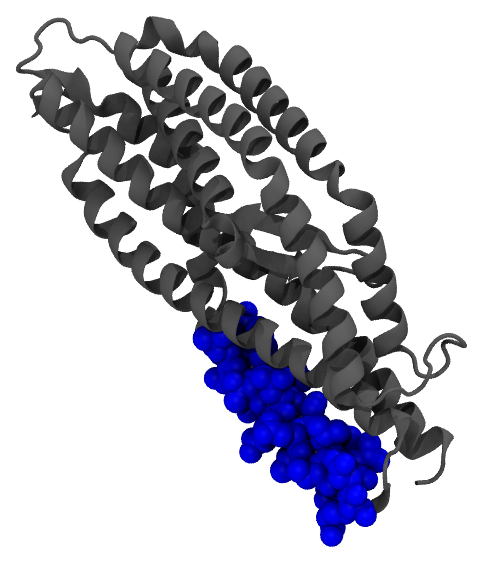
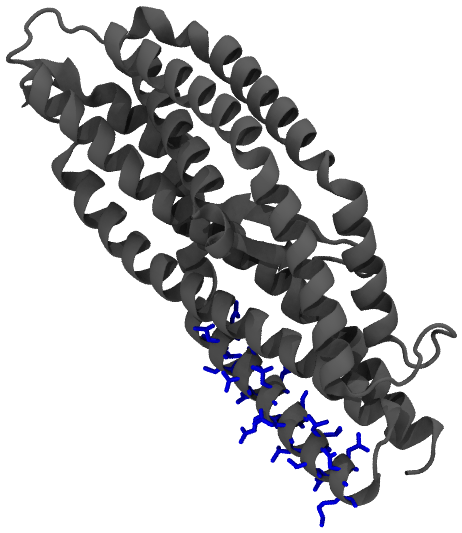
docs(methods+home): real rendered figures for growth/sampling/segments; licorice
Methods page: replace the three dot-based conceptual diagrams with renderings
from the real 8PWW structure.
- Neighbor-based patch growth: three molecular-surface panels (same surface and
  view) showing growth from one exposed seed residue to a ~16-residue patch,
  generated with the actual nearest-surface growth procedure (render_surface_stage.tcl).
- Directional surface sampling: two panels of the same surface and view, each
  highlighting a different surface cap, with a viewing-direction arrow.
- Sequence segments: a real ribbon of 8PWW chain A with two stretches (186-208,
  286-313) in red and orange meeting in the fold, beside a matching sequence
  strip (render_islands.tcl). The iterative-loop flowchart stays SVG.

Homepage: switch the highlighted residues from VDW spheres to licorice sticks
(render_epitope_fig.tcl), re-render, and reduce whitespace (transparent image
backgrounds, height caps, tighter crop padding in trim_transparent.py).

New reproducible scripts: render_surface_stage.tcl, render_islands.tcl.

Claude-Session: https://claude.ai/code/session_01UnbU2XAnf3AQvdSJq3XEXq

Changed region(s): [[0.0, 0.0, 1.0, 0.9906]]

diff --git a/docs/methods.html b/docs/methods.html
@@ -52,6 +52,17 @@ figure.dgm figcaption{font-size:11.5px;color:#6a7686;margin:7px auto 0;max-width
 .dgm .dlbl{font-size:11px;font-weight:bold;fill:currentColor}
 .dgm .dtxt{font-size:10.5px;fill:currentColor}
 .dgm .dmut{font-size:10px;fill:currentColor;opacity:.62}
+.frow{display:flex;gap:10px;align-items:flex-start;justify-content:center;flex-wrap:wrap;margin:4px 0}
+.frow figure{margin:0;flex:1 1 150px;min-width:120px;max-width:210px;text-align:center}
+.frow img{display:block;width:100%;height:auto;border:1px solid #e3e9f2;border-radius:7px;background:#f3f6fb}
+.frow figcaption{font-size:10.5px;color:#6a7686;margin-top:4px;text-align:center}
+.frow .farrow{flex:0 0 auto;align-self:center;font-size:20px;color:#8fa4c0}
+.dirwrap{position:relative;display:block}
+.dirwrap .darrow{position:absolute;display:block;width:60%;height:auto;color:#1b4a86}
+.seqfig{display:flex;gap:14px;align-items:center;flex-wrap:wrap;justify-content:center}
+.seqfig .strip{flex:1 1 240px;min-width:220px;max-width:360px}
+.seqfig .fold{flex:0 0 auto;width:170px}
+.seqfig .fold img{display:block;width:100%;height:auto;border:1px solid #e3e9f2;border-radius:7px;background:#f3f6fb}
 </style>
 </head>
 <body>
@@ -120,30 +131,29 @@ figure.dgm figcaption{font-size:11.5px;color:#6a7686;margin:7px auto 0;max-width
     benchmark this 4&nbsp;&Aring; contact rule returns the same epitope residues reported for that
     complex.</p>
     <figure class="dgm">
-    <svg viewBox="0 0 480 262" role="img" aria-label="Schematic of sequence islands: three separate stretches of the primary sequence that sit next to one another once the chain folds." style="max-width:460px">
-    <title>Sequence segments (islands)</title>
-    <text class="dmut" x="40" y="34" text-anchor="start">primary sequence (N &#8594; C)</text>
-    <rect x="40" y="46" width="400" height="28" rx="5" fill="#9aa3ad" fill-opacity=".13" stroke="#9aa3ad"/>
-    <rect x="95" y="46" width="42" height="28" rx="3" fill="#e5543f"/>
-    <rect x="210" y="46" width="52" height="28" rx="3" fill="#e5543f"/>
-    <rect x="350" y="46" width="34" height="28" rx="3" fill="#e5543f"/>
-    <text class="dtxt" x="116" y="90" text-anchor="middle">1</text>
-    <text class="dtxt" x="236" y="90" text-anchor="middle">2</text>
-    <text class="dtxt" x="367" y="90" text-anchor="middle">3</text>
-    <g fill="none" stroke="currentColor" stroke-opacity=".35" stroke-dasharray="4 3">
-      <path d="M116,96 C 150,120 180,135 205,152"/>
-      <path d="M236,96 C 238,118 239,130 240,140"/>
-      <path d="M367,96 C 330,120 300,140 277,153"/>
-    </g>
-    <ellipse cx="240" cy="188" rx="112" ry="60" fill="#9aa3ad" fill-opacity=".13" stroke="#9aa3ad"/>
-    <circle cx="205" cy="160" r="13" fill="#e5543f"/>
-    <circle cx="240" cy="150" r="13" fill="#e5543f"/>
-    <circle cx="275" cy="162" r="13" fill="#e5543f"/>
-    <text class="dtxt" x="240" y="252" text-anchor="middle">folded structure</text>
-    </svg>
-    <figcaption>Conceptual schematic. One epitope is often several separate stretches of the sequence
-    (islands, red) that are far apart along the chain but sit next to one another once it folds.
-    Generation must reproduce each island and the geometry between them.</figcaption>
+    <div class="seqfig">
+      <div class="strip">
+        <svg viewBox="0 0 360 74" role="img" aria-label="The antigen sequence with two highlighted stretches, residues 186 to 208 and 286 to 313, that are far apart in sequence." style="max-width:360px">
+          <text class="dmut" x="6" y="14" text-anchor="start">antigen sequence (N &#8594; C)</text>
+          <rect x="6" y="22" width="348" height="22" rx="4" fill="#9aa3ad" fill-opacity=".14" stroke="#9aa3ad"/>
+          <rect x="70" y="22" width="58" height="22" rx="3" fill="#e5543f"/>
+          <rect x="232" y="22" width="70" height="22" rx="3" fill="#e8872b"/>
+          <text class="dtxt" x="99" y="38" text-anchor="middle" fill="#ffffff" font-weight="bold">1</text>
+          <text class="dtxt" x="267" y="38" text-anchor="middle" fill="#ffffff" font-weight="bold">2</text>
+          <text class="dtxt" x="99" y="62" text-anchor="middle">186&ndash;208</text>
+          <text class="dtxt" x="267" y="62" text-anchor="middle">286&ndash;313</text>
+        </svg>
+      </div>
+      <figure class="fold" style="margin:0">
+        <img src="img/fig/seq_islands.png" loading="lazy"
+             alt="8PWW chain A as a grey ribbon; residues 186-208 (red) and 286-313 (orange) sit next to each other at the top of the fold.">
+        <figcaption style="font-size:10.5px;color:#6a7686;margin-top:4px">the two stretches meet in the fold</figcaption>
+      </figure>
+    </div>
+    <figcaption>Two stretches of the 8PWW sequence, far apart along the chain
+    (<b style="color:#c0392b">186&ndash;208</b> and <b style="color:#b35e13">286&ndash;313</b>), sit next to
+    one another once the antigen folds. One epitope is often several such segments (&ldquo;islands&rdquo;),
+    and generation must reproduce each and the geometry between them. Rendered from 8PWW chain A.</figcaption>
     </figure>
     <p class="io"><b>In:</b> antibody&ndash;antigen complex (PDB). <b>&rarr; Out:</b> the epitope &mdash; the antigen residues the antibody contacts.</p>
     <p class="loc">episcaf_analysis/growpatch/read.py &middot; detect_complex()</p>
@@ -176,81 +186,40 @@ figure.dgm figcaption{font-size:11.5px;color:#6a7686;margin:7px auto 0;max-width
       geometrically-defined patches that the growth pass can split across sequence segments.</li>
     </ul>
     <figure class="dgm">
-    <svg viewBox="0 0 670 200" role="img" aria-label="Three-panel schematic of seed-and-grow patch growth: one seed residue, then its nearest surface neighbours added, then a footprint-sized patch of about sixteen residues." style="max-width:670px">
-    <title>Neighbor-based patch growth (seed and grow)</title>
-    <defs><marker id="mkg" markerWidth="9" markerHeight="9" refX="6" refY="3" orient="auto"><path d="M0,0 L6,3 L0,6 Z" fill="currentColor"/></marker></defs>
-    <g transform="translate(10,0)">
-      <text class="dlbl" x="100" y="16" text-anchor="middle">1 &middot; pick a seed</text>
-      <ellipse cx="100" cy="95" rx="72" ry="62" fill="#9aa3ad" fill-opacity=".12" stroke="#9aa3ad"/>
-      <g fill="none" stroke="#9aa3ad">
-        <circle cx="126" cy="95" r="7"/><circle cx="113" cy="72.5" r="7"/><circle cx="87" cy="72.5" r="7"/><circle cx="74" cy="95" r="7"/><circle cx="87" cy="117.5" r="7"/><circle cx="113" cy="117.5" r="7"/>
-        <circle cx="150" cy="95" r="7"/><circle cx="143" cy="70" r="7"/><circle cx="125" cy="52" r="7"/><circle cx="100" cy="45" r="7"/><circle cx="75" cy="52" r="7"/><circle cx="57" cy="70" r="7"/><circle cx="50" cy="95" r="7"/><circle cx="57" cy="120" r="7"/><circle cx="75" cy="138" r="7"/><circle cx="100" cy="145" r="7"/><circle cx="125" cy="138" r="7"/><circle cx="143" cy="120" r="7"/>
-      </g>
-      <circle cx="100" cy="95" r="7.5" fill="#e5543f" stroke="#e5543f"/>
-      <text class="dmut" x="100" y="188" text-anchor="middle">exposed residue</text>
-    </g>
-    <g color="currentColor"><line x1="180" y1="95" x2="236" y2="95" stroke="currentColor" stroke-width="1.5" marker-end="url(#mkg)"/><text class="dmut" x="208" y="88" text-anchor="middle">grow</text></g>
-    <g transform="translate(235,0)">
-      <text class="dlbl" x="100" y="16" text-anchor="middle">2 &middot; add nearest neighbours</text>
-      <ellipse cx="100" cy="95" rx="72" ry="62" fill="#9aa3ad" fill-opacity=".12" stroke="#9aa3ad"/>
-      <g fill="none" stroke="#9aa3ad">
-        <circle cx="150" cy="95" r="7"/><circle cx="143" cy="70" r="7"/><circle cx="125" cy="52" r="7"/><circle cx="100" cy="45" r="7"/><circle cx="75" cy="52" r="7"/><circle cx="57" cy="70" r="7"/><circle cx="50" cy="95" r="7"/><circle cx="57" cy="120" r="7"/><circle cx="75" cy="138" r="7"/><circle cx="100" cy="145" r="7"/><circle cx="125" cy="138" r="7"/><circle cx="143" cy="120" r="7"/>
-      </g>
-      <g fill="#2b47d6" fill-opacity=".55" stroke="#2b47d6">
-        <circle cx="126" cy="95" r="7"/><circle cx="113" cy="72.5" r="7"/><circle cx="87" cy="72.5" r="7"/><circle cx="74" cy="95" r="7"/><circle cx="87" cy="117.5" r="7"/><circle cx="113" cy="117.5" r="7"/>
-      </g>
-      <circle cx="100" cy="95" r="7.5" fill="#e5543f" stroke="#e5543f"/>
-      <text class="dmut" x="100" y="188" text-anchor="middle">first ring added</text>
-    </g>
-    <g color="currentColor"><line x1="405" y1="95" x2="461" y2="95" stroke="currentColor" stroke-width="1.5" marker-end="url(#mkg)"/><text class="dmut" x="433" y="88" text-anchor="middle">grow</text></g>
-    <g transform="translate(460,0)">
-      <text class="dlbl" x="100" y="16" text-anchor="middle">3 &middot; footprint (~16 residues)</text>
-      <ellipse cx="100" cy="95" rx="72" ry="62" fill="#9aa3ad" fill-opacity=".12" stroke="#9aa3ad"/>
-      <ellipse cx="100" cy="82" rx="56" ry="46" fill="none" stroke="#2b47d6" stroke-width="1.4" stroke-dasharray="4 3"/>
-      <g fill="none" stroke="#9aa3ad">
-        <circle cx="75" cy="138" r="7"/><circle cx="100" cy="145" r="7"/><circle cx="125" cy="138" r="7"/>
-      </g>
-      <g fill="#2b47d6" fill-opacity=".3" stroke="#2b47d6">
-        <circle cx="150" cy="95" r="7"/><circle cx="143" cy="70" r="7"/><circle cx="125" cy="52" r="7"/><circle cx="100" cy="45" r="7"/><circle cx="75" cy="52" r="7"/><circle cx="57" cy="70" r="7"/><circle cx="50" cy="95" r="7"/><circle cx="57" cy="120" r="7"/><circle cx="143" cy="120" r="7"/>
-      </g>
-      <g fill="#2b47d6" fill-opacity=".55" stroke="#2b47d6">
-        <circle cx="126" cy="95" r="7"/><circle cx="113" cy="72.5" r="7"/><circle cx="87" cy="72.5" r="7"/><circle cx="74" cy="95" r="7"/><circle cx="87" cy="117.5" r="7"/><circle cx="113" cy="117.5" r="7"/>
-      </g>
-      <circle cx="100" cy="95" r="7.5" fill="#e5543f" stroke="#e5543f"/>
-      <text class="dmut" x="100" y="188" text-anchor="middle">candidate patch</text>
-    </g>
-    </svg>
-    <figcaption>Conceptual schematic. Neighbor-based growth starts at one exposed surface residue (red)
-    and accretes its nearest surface neighbours (blue, filling outward) until the patch reaches
-    footprint size, about 16 residues. The run repeats from many seeds; residues left grey here fall to
-    patches other seeds grow.</figcaption>
+    <div class="frow">
+      <figure><img src="img/fig/grow_g1.png" loading="lazy" alt="One exposed starting residue in red on the grey molecular surface of 8PWW chain A."><figcaption>1 &middot; pick an exposed seed residue</figcaption></figure>
+      <span class="farrow" aria-hidden="true">&rarr;</span>
+      <figure><img src="img/fig/grow_g2.png" loading="lazy" alt="The seed plus its nearest surface neighbours, a larger red patch on the same surface view."><figcaption>2 &middot; add nearest surface neighbours</figcaption></figure>
+      <span class="farrow" aria-hidden="true">&rarr;</span>
+      <figure><img src="img/fig/grow_g3.png" loading="lazy" alt="A footprint-sized red patch of about sixteen residues on the same surface view."><figcaption>3 &middot; footprint patch (~16 residues)</figcaption></figure>
+    </div>
+    <figcaption>Rendered from 8PWW chain A (molecular surface), using the actual growth procedure:
+    growth starts at one exposed surface residue (red) and accretes its nearest surface neighbours until
+    the patch reaches footprint size, about 16 residues. The same surface and view are held across the
+    three stages; the run repeats from many seeds.</figcaption>
     </figure>
     <figure class="dgm">
-    <svg viewBox="0 0 600 262" role="img" aria-label="Schematic of directional surface sampling: an antigen blob with two approach-direction arrows, each highlighting the surface cap it would contact first." style="max-width:600px">
-    <title>Directional surface sampling (antibody's-eye view)</title>
-    <defs><marker id="mke" markerWidth="9" markerHeight="9" refX="6" refY="3" orient="auto"><path d="M0,0 L6,3 L0,6 Z" fill="currentColor"/></marker></defs>
-    <ellipse cx="300" cy="135" rx="95" ry="78" fill="#9aa3ad" fill-opacity=".13" stroke="#9aa3ad"/>
-    <g fill="none" stroke="#9aa3ad">
-      <circle cx="332" cy="62" r="6.5"/><circle cx="300" cy="57" r="6.5"/><circle cx="268" cy="208" r="6.5"/><circle cx="347" cy="202" r="6.5"/><circle cx="300" cy="213" r="6.5"/>
-    </g>
-    <g fill="#2b47d6" fill-opacity=".55" stroke="#2b47d6">
-      <circle cx="252" cy="68" r="6.5"/><circle cx="227" cy="85" r="6.5"/><circle cx="211" cy="108" r="6.5"/><circle cx="205" cy="135" r="6.5"/><circle cx="211" cy="162" r="6.5"/>
-    </g>
-    <g fill="#2b47d6" fill-opacity=".55" stroke="#2b47d6">
-      <circle cx="382" cy="96" r="6.5"/><circle cx="394" cy="121" r="6.5"/><circle cx="395" cy="135" r="6.5"/><circle cx="394" cy="148" r="6.5"/><circle cx="382" cy="174" r="6.5"/>
-    </g>
-    <g color="currentColor">
-      <line x1="70" y1="55" x2="228" y2="103" stroke="currentColor" stroke-width="1.8" marker-end="url(#mke)"/>
-      <line x1="545" y1="214" x2="406" y2="158" stroke="currentColor" stroke-width="1.8" marker-end="url(#mke)"/>
-    </g>
-    <text class="dtxt" x="66" y="44" text-anchor="start">direction 1</text>
-    <text class="dtxt" x="548" y="230" text-anchor="end">direction 2</text>
-    <text class="dmut" x="150" y="150" text-anchor="middle">surface cap 1</text>
-    <text class="dmut" x="455" y="120" text-anchor="middle">surface cap 2</text>
-    </svg>
-    <figcaption>Conceptual schematic. Each arrow is one viewing direction, swept over a sphere with a
-    Fibonacci lattice; the highlighted cap is the surface those residues present to that direction. The
-    arrow is sampling geometry, not a predicted antibody pose.</figcaption>
+    <div class="frow">
+      <figure class="dirwrap">
+        <img src="img/fig/dir_da.png" loading="lazy" alt="The 8PWW surface with one surface cap highlighted in blue near the top; an arrow shows the viewing direction that would contact it.">
+        <svg viewBox="0 0 100 100" preserveAspectRatio="none" style="position:absolute;inset:0;width:100%;height:100%;pointer-events:none" aria-hidden="true">
+          <defs><marker id="dm1" markerWidth="7" markerHeight="7" refX="5" refY="3" orient="auto"><path d="M0,0 L6,3 L0,6 Z" fill="#1b4a86"/></marker></defs>
+          <line x1="3" y1="2" x2="30" y2="20" stroke="#1b4a86" stroke-width="2.4" vector-effect="non-scaling-stroke" marker-end="url(#dm1)"/>
+        </svg>
+        <figcaption>direction 1 &rarr; cap 1</figcaption>
+      </figure>
+      <figure class="dirwrap">
+        <img src="img/fig/dir_db.png" loading="lazy" alt="The same 8PWW surface and view with a different surface cap highlighted in blue near the bottom; a second arrow shows the viewing direction that would contact it.">
+        <svg viewBox="0 0 100 100" preserveAspectRatio="none" style="position:absolute;inset:0;width:100%;height:100%;pointer-events:none" aria-hidden="true">
+          <defs><marker id="dm2" markerWidth="7" markerHeight="7" refX="5" refY="3" orient="auto"><path d="M0,0 L6,3 L0,6 Z" fill="#1b4a86"/></marker></defs>
+          <line x1="2" y1="58" x2="40" y2="82" stroke="#1b4a86" stroke-width="2.4" vector-effect="non-scaling-stroke" marker-end="url(#dm2)"/>
+        </svg>
+        <figcaption>direction 2 &rarr; cap 2</figcaption>
+      </figure>
+    </div>
+    <figcaption>Rendered from the same 8PWW surface held in the same view. A viewing direction is sampled
+    over a sphere (a Fibonacci lattice); from each direction the cap of residues an approaching antibody
+    would see first is taken (blue). The arrow is the sampling direction, not a predicted antibody pose.</figcaption>
     </figure>
     <p>Each candidate records which method or methods produced it. Agreement between the two methods is
     <span class="k">provenance</span> (the same patch was reached two ways); it is not on its own

diff --git a/docs/home.html b/docs/home.html
@@ -34,11 +34,11 @@ code{font-family:"Courier New",Courier,monospace;font-size:12px;background:#f0f0
 .footline a{color:#0033cc}
 
 /* ---- overview schematic (in-card illustrations + converging shared workflow) ---- */
-.ill{display:block;width:100%;height:auto;margin:0 0 10px;border:1px solid #e3e9f2;border-radius:7px;background:#f3f6fb}
-.ill-cap{font-size:11px;color:#566b85;margin:-4px 0 10px;letter-spacing:.01em}
-.candrow{display:flex;gap:7px;margin:0 0 8px}
+.ill{display:block;width:auto;max-width:100%;max-height:230px;height:auto;margin:0 auto 6px;background:transparent}
+.ill-cap{font-size:11px;color:#566b85;margin:0 0 10px;letter-spacing:.01em;text-align:center}
+.candrow{display:flex;gap:6px;margin:0 0 6px;justify-content:center}
 .candrow figure{flex:1;margin:0;text-align:center}
-.candrow img{display:block;width:100%;height:auto;border:1px solid #e3e9f2;border-radius:6px;background:#f3f6fb}
+.candrow img{display:block;width:100%;height:auto;max-height:150px;object-fit:contain;background:transparent}
 .candrow figcaption{font-size:10px;color:#566b85;margin-top:3px}
 .candrow .sel img{border-color:#e5543f;box-shadow:0 0 0 1px #e5543f}
 .candrow .sel figcaption{color:#c0392b;font-weight:bold}
@@ -50,7 +50,7 @@ code{font-family:"Courier New",Courier,monospace;font-size:12px;background:#f0f0
 .shared-h{font-size:11px;letter-spacing:.05em;text-transform:uppercase;color:#566b85;font-weight:bold;margin:0 0 10px}
 .shared-body{display:flex;align-items:center;gap:18px;flex-wrap:wrap}
 .shared-ill{flex:none;width:150px}
-.shared-ill .ill{margin:0 0 4px;background:#fff}
+.shared-ill .ill{margin:0 auto 4px;background:transparent;max-height:150px}
 .shared-ill .ill-cap{margin:0;text-align:center}
 .steps-row{display:flex;align-items:center;gap:8px;flex-wrap:wrap;flex:1;min-width:220px}
 .pstep{font-size:12.5px;font-weight:bold;color:#1b4a86;background:#fff;border:1px solid #cfdcec;border-radius:6px;padding:6px 11px}

diff --git a/scripts/trim_transparent.py b/scripts/trim_transparent.py
@@ -12,7 +12,7 @@ else is kept. A small padding is added so marks are not flush to the edge.
 import sys
 from PIL import Image
 
-PAD = 16
+PAD = 6
 THRESH = 244   # pixels with min(r,g,b) >= THRESH are treated as background
 
 def process(path):
